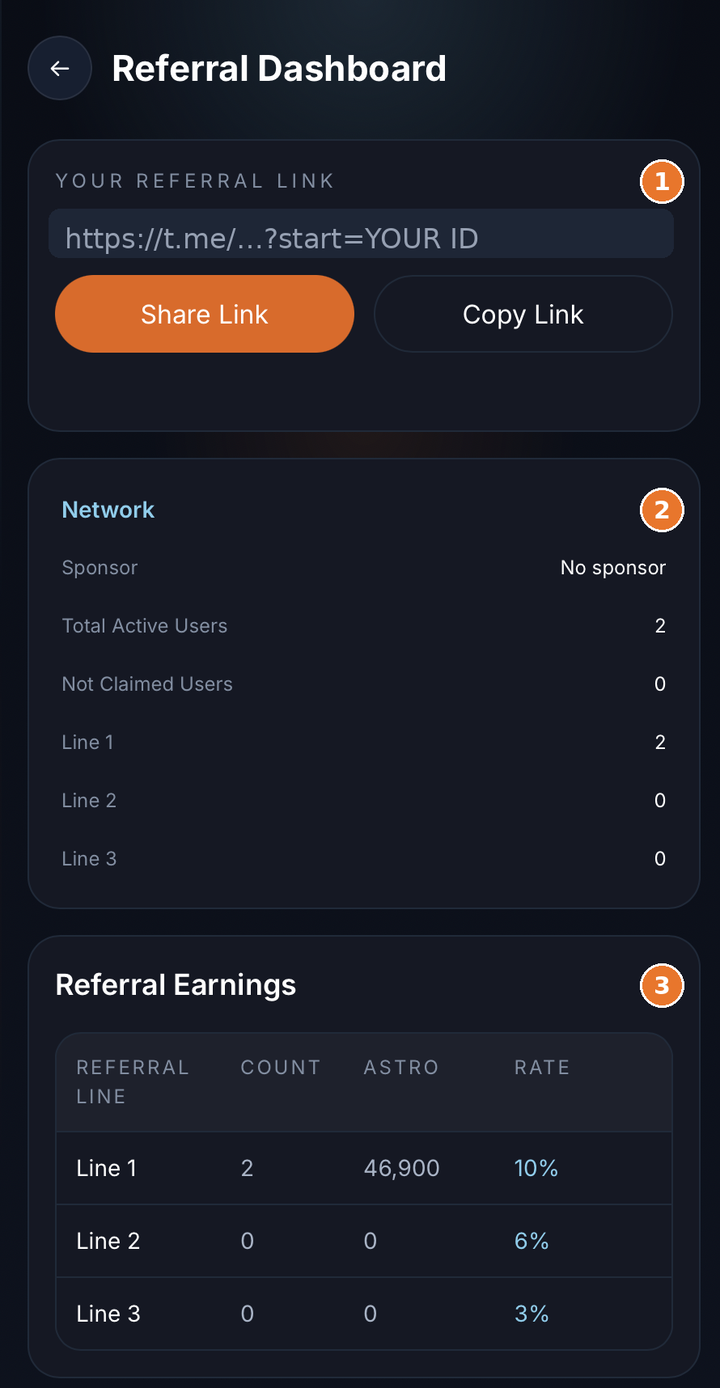
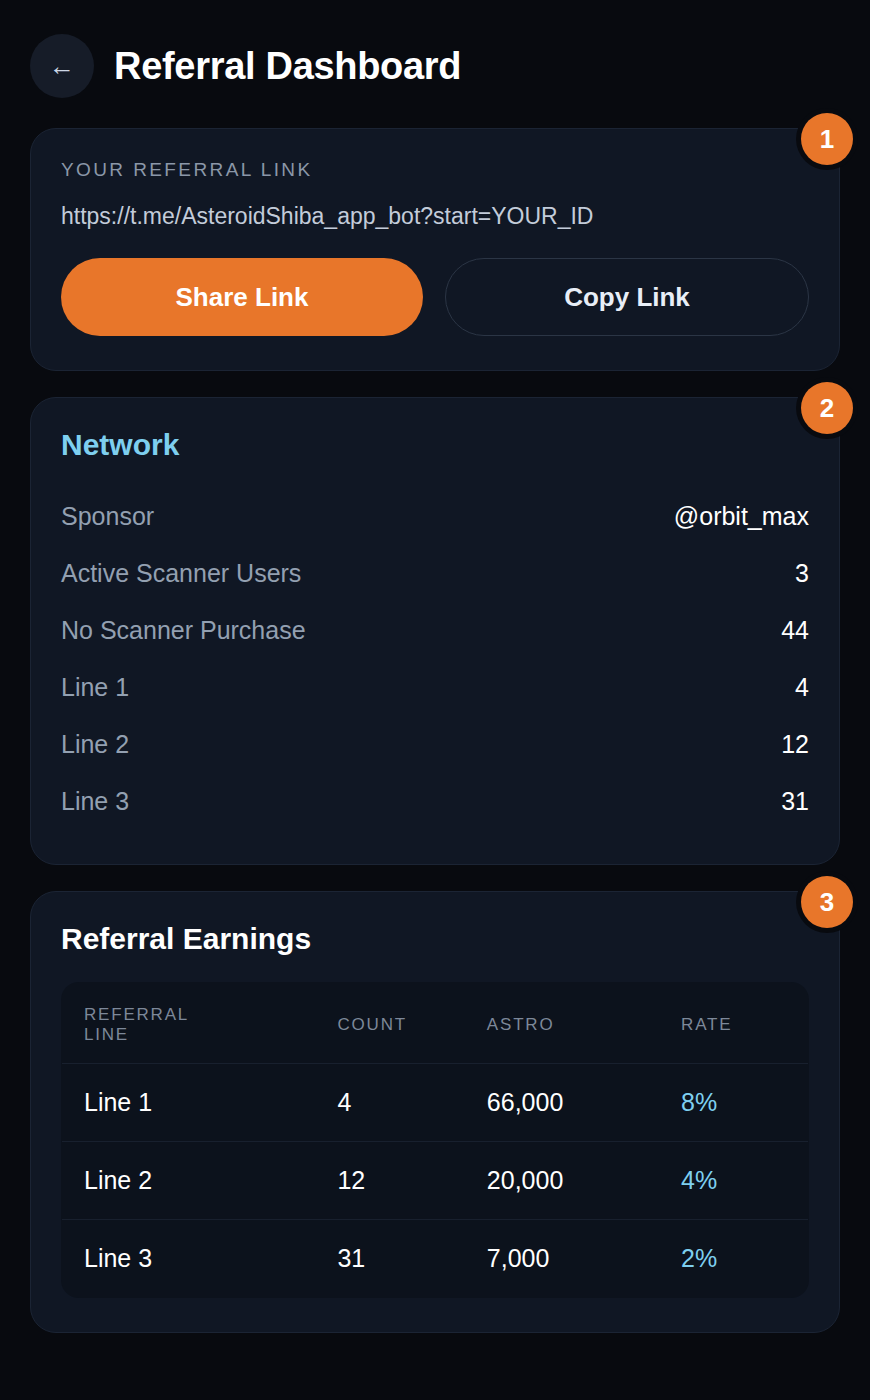
docs(guide): show standard referral rates, redact invite link

diff --git a/getting-started/first-hunt.md b/getting-started/first-hunt.md
@@ -62,9 +62,9 @@ Research upgrades one asteroid. Your **Scanner** is the other half: it's account
 
 Your referral network isn't a side quest — it pays in ASTRO across three lines.
 
-<figure><img src="../.gitbook/assets/first-hunt-invite.png" alt="Referral dashboard with numbered callouts" width="360"><figcaption><p>① Your personal invite link — share or copy it · ② Network — your sponsor and how many explorers sit on each line · ③ Referral Earnings — ASTRO earned per line at 10% / 6% / 3%</p></figcaption></figure>
+<figure><img src="../.gitbook/assets/first-hunt-invite.png" alt="Referral dashboard with numbered callouts" width="360"><figcaption><p>① Your personal invite link — share or copy it · ② Network — your sponsor and how many explorers sit on each line · ③ Referral Earnings — ASTRO earned per line at 8% / 4% / 2%</p></figcaption></figure>
 
-Line 1 pays **10%**, line 2 **6%**, line 3 **3%**. A crew keeps earning for you while you hunt.
+Line 1 pays **8%**, line 2 **4%**, line 3 **2%** — paid in ASTRO whenever someone in your network upgrades their Scanner. Sign-ups alone don't pay out. [Ambassadors](../referral/ambassador.md) earn more on every line. A crew keeps earning for you while you hunt.
 
 ***
 
